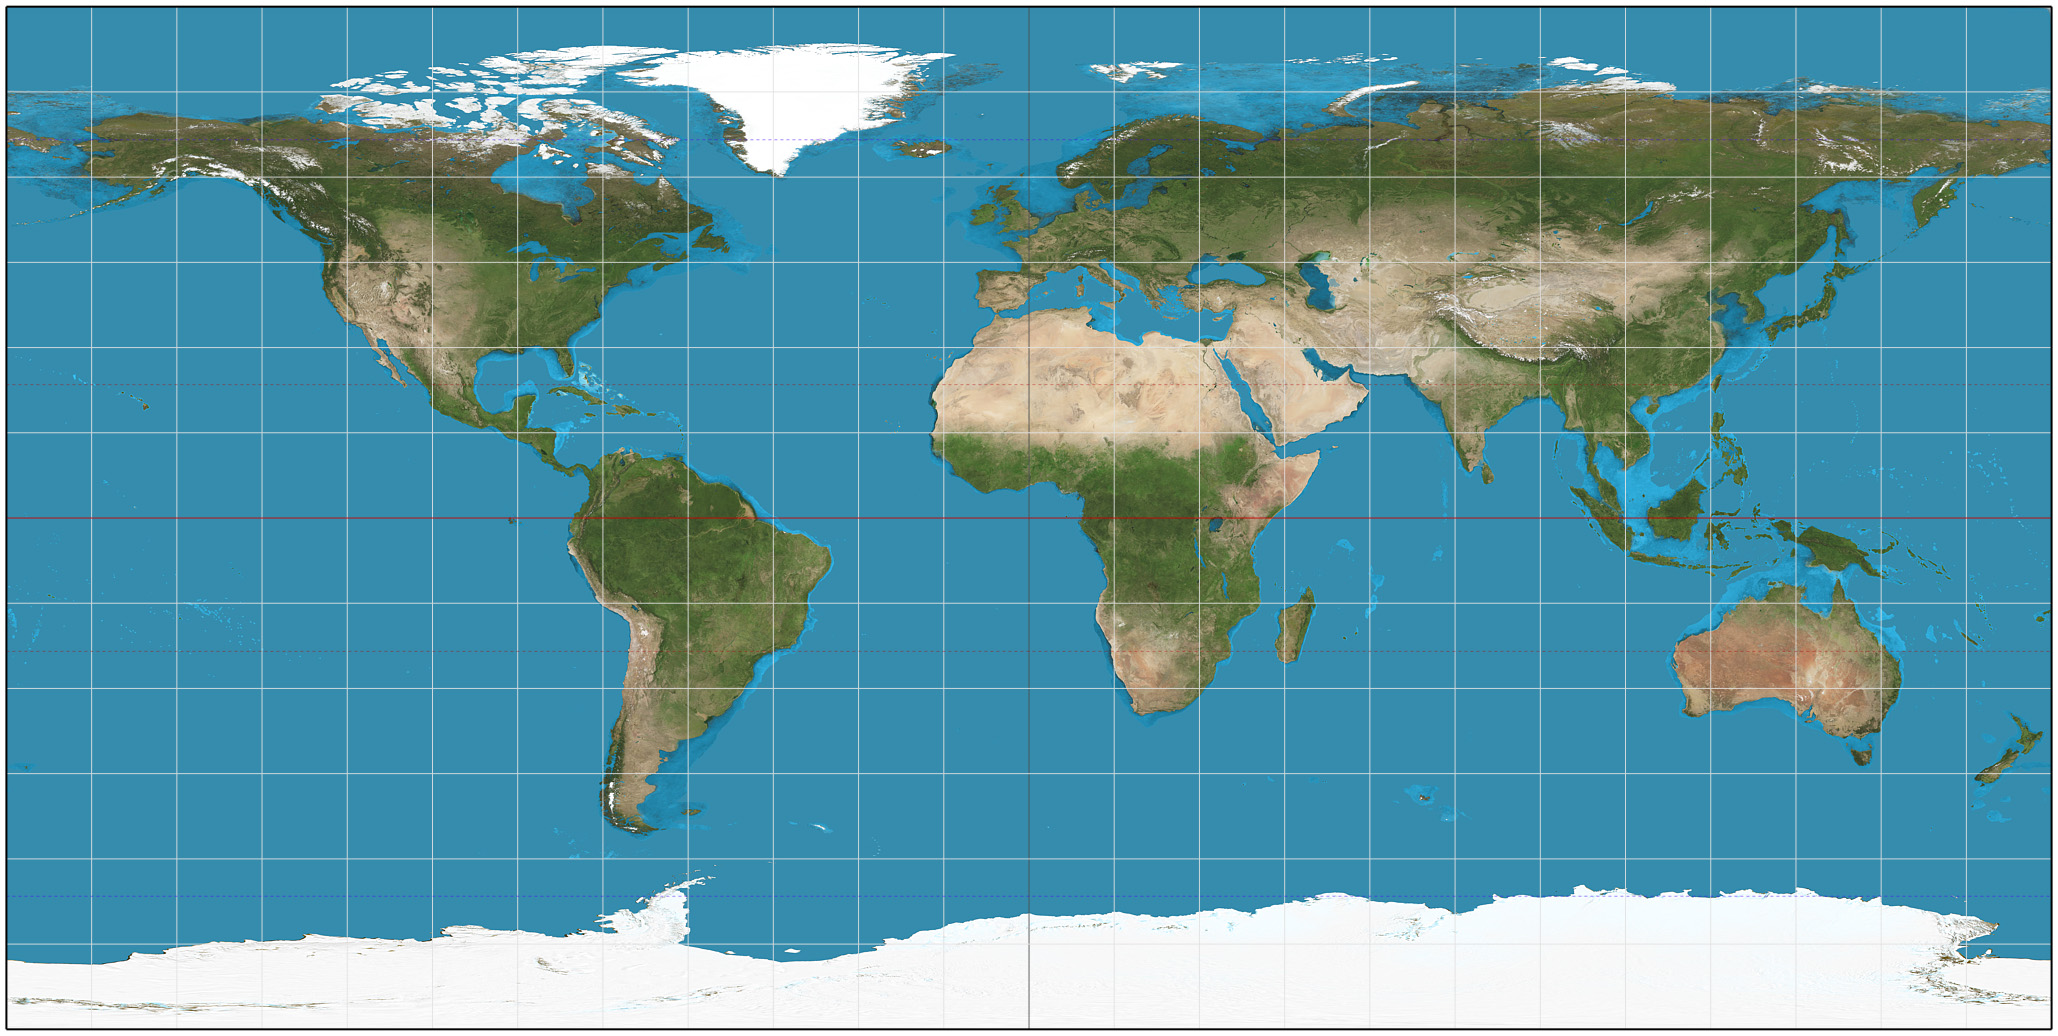
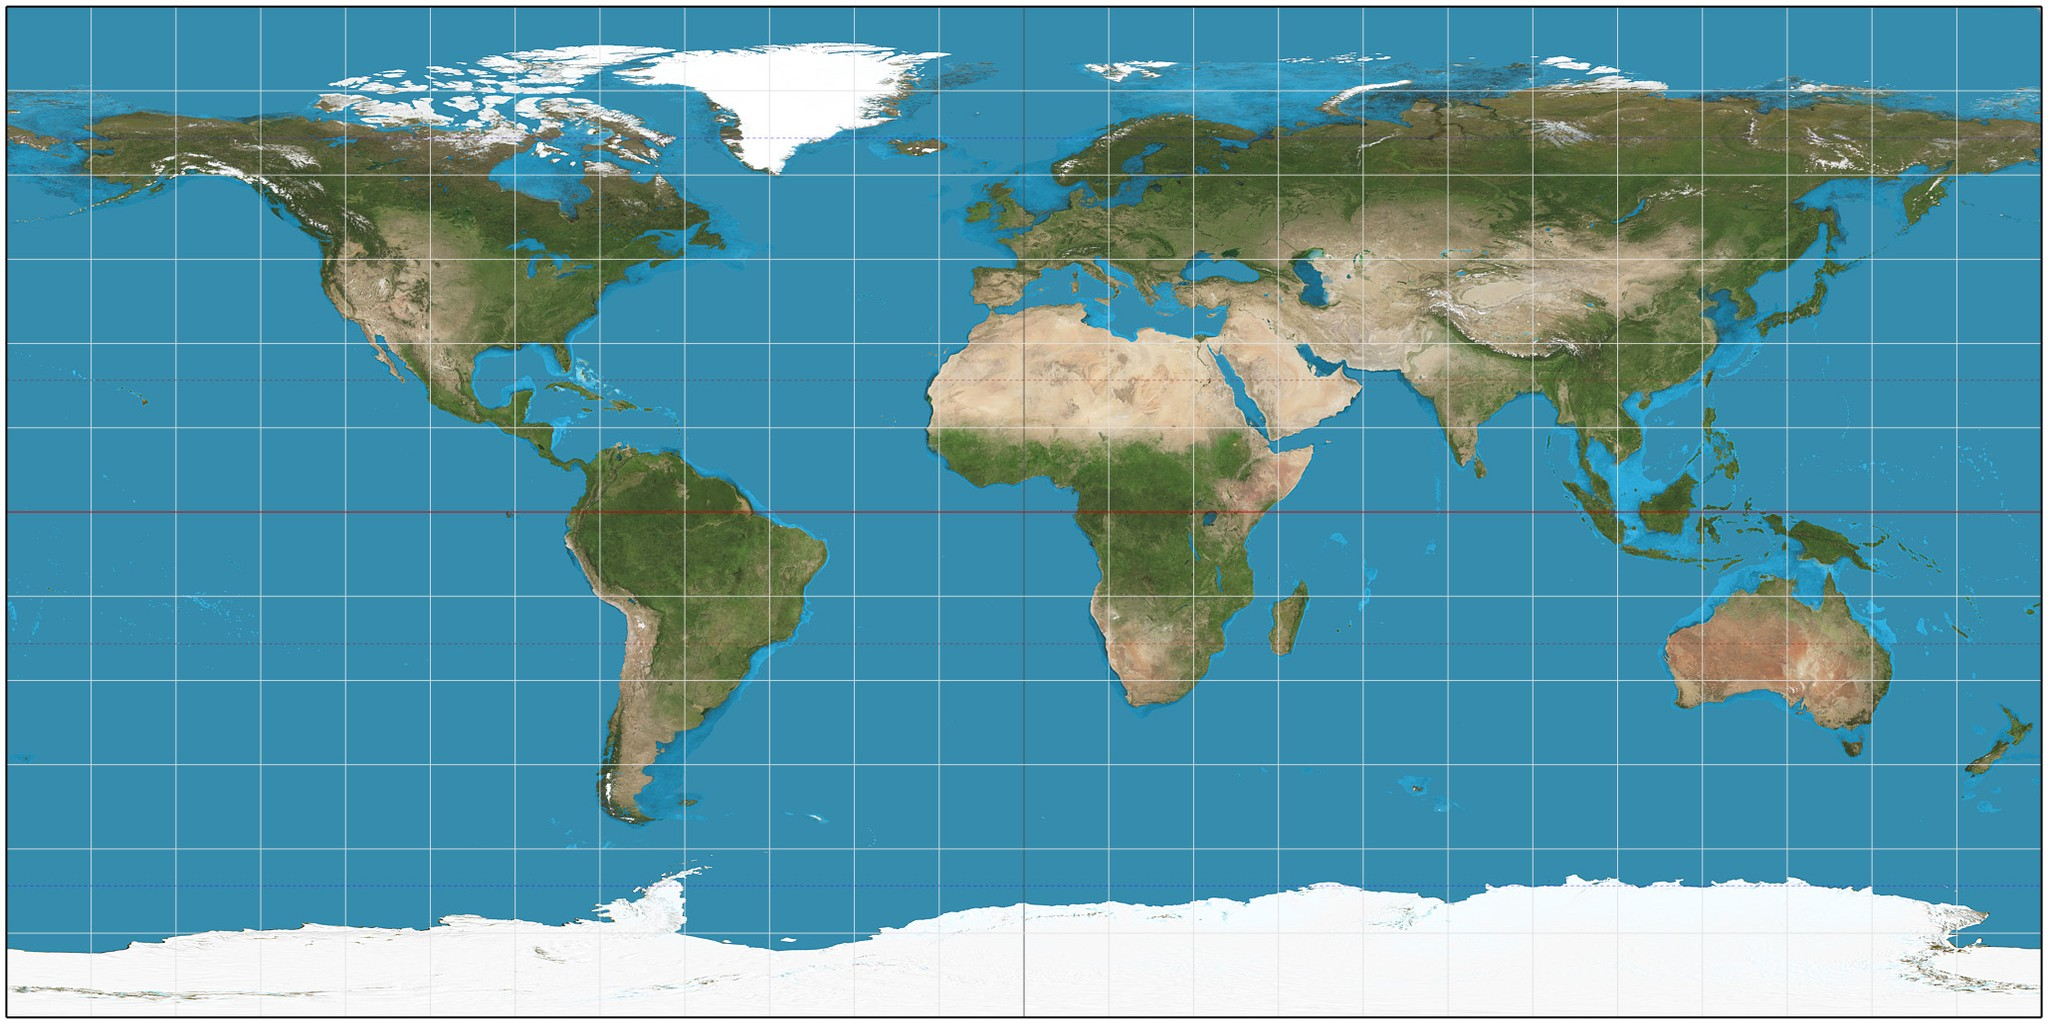
Concept B fixes: POT earth texture (fixes black globe), remove thick atmosphere border, larger canvas + pulled-back camera so arcs fit

Changed region(s): [[0.7812, 0.4688, 0.9062, 0.5312], [0.25, 0.125, 0.2812, 0.1562]]

diff --git a/hero2.html b/hero2.html
@@ -64,10 +64,10 @@ h1{font-family:"Space Grotesk",sans-serif;margin:0;font-weight:700}
 .trust svg{stroke:var(--lime)}
 
 /* 3D globe mount */
-.visual{position:relative;display:grid;place-items:center;min-height:540px}
-.vglow{position:absolute;width:560px;height:560px;border-radius:50%;background:radial-gradient(circle, rgba(91,157,255,.28), rgba(139,92,255,.14) 42%, transparent 70%);filter:blur(8px);pointer-events:none;animation:breathe 7s ease-in-out infinite}
+.visual{position:relative;display:grid;place-items:center;min-height:680px}
+.vglow{position:absolute;width:560px;height:560px;border-radius:50%;background:radial-gradient(circle, rgba(91,157,255,.22), rgba(139,92,255,.12) 42%, transparent 70%);filter:blur(10px);pointer-events:none;animation:breathe 7s ease-in-out infinite}
 @keyframes breathe{50%{transform:scale(1.05);opacity:.85}}
-#globe{position:relative;z-index:2;width:100%;height:540px;cursor:grab}
+#globe{position:relative;z-index:2;width:100%;height:680px;cursor:grab}
 #globe:active{cursor:grabbing}
 .hint{position:absolute;bottom:6px;left:50%;transform:translateX(-50%);z-index:3;font-size:.74rem;color:var(--muted2);letter-spacing:.04em;display:inline-flex;align-items:center;gap:.4rem;pointer-events:none;opacity:.8}
 
@@ -135,38 +135,30 @@ const R = 1.55;
 
 const scene = new THREE.Scene();
 const camera = new THREE.PerspectiveCamera(42, W/H, 0.1, 100);
-camera.position.set(0, 0.35, 5.2);
+camera.position.set(0, 0.35, 6.8);
 
 const renderer = new THREE.WebGLRenderer({ antialias:true, alpha:true });
 renderer.setPixelRatio(Math.min(devicePixelRatio, 2));
 renderer.setSize(W, H);
 mount.appendChild(renderer.domElement);
 
-// lights
-scene.add(new THREE.AmbientLight(0x6f86b0, 1.05));
-const sun = new THREE.DirectionalLight(0xfff4e0, 1.5);
+// lights — bright enough that the whole globe is clearly visible
+scene.add(new THREE.AmbientLight(0xb4c2da, 1.25));
+const sun = new THREE.DirectionalLight(0xfff4e0, 1.05);
 sun.position.set(-2.4, 1.4, 3); scene.add(sun);
 
-// Earth — map for lit side + emissiveMap so it stays visible & textured everywhere
-const tex = new THREE.TextureLoader().load('assets/earth.jpg');
+// Earth — power-of-two texture, defensive flags so it always renders (no black)
+const tex = new THREE.TextureLoader().load('assets/earth.jpg', ()=>{ renderer.render(scene,camera); });
 tex.colorSpace = THREE.SRGBColorSpace;
+tex.minFilter = THREE.LinearFilter;
+tex.generateMipmaps = false;
+tex.anisotropy = renderer.capabilities.getMaxAnisotropy();
 const earth = new THREE.Mesh(
   new THREE.SphereGeometry(R, 96, 96),
-  new THREE.MeshPhongMaterial({ map: tex, emissive: 0xffffff, emissiveMap: tex, emissiveIntensity: 0.32, shininess: 8, specular: new THREE.Color(0x2a3a4a) })
+  new THREE.MeshPhongMaterial({ map: tex, emissive: 0xffffff, emissiveMap: tex, emissiveIntensity: 0.28, shininess: 12, specular: new THREE.Color(0x223344) })
 );
 earth.rotation.z = 0.41;
 scene.add(earth);
-
-// subtle atmosphere rim
-const atm = new THREE.Mesh(
-  new THREE.SphereGeometry(R, 64, 64),
-  new THREE.ShaderMaterial({
-    transparent:true, blending:THREE.AdditiveBlending, side:THREE.BackSide, depthWrite:false,
-    vertexShader:`varying float i;void main(){vec3 n=normalize(normalMatrix*normal);vec3 v=normalize((modelViewMatrix*vec4(position,1.0)).xyz);i=pow(0.95+dot(n,v),3.0);gl_Position=projectionMatrix*modelViewMatrix*vec4(position,1.0);}`,
-    fragmentShader:`varying float i;void main(){gl_FragColor=vec4(0.30,0.50,1.0,1.0)*min(i,1.2)*0.75;}`
-  })
-);
-atm.scale.setScalar(1.14); scene.add(atm);
 
 // lat/lon -> point on globe (matches standard equirectangular earth.jpg)
 function ll(lat, lon, r=R){
@@ -205,7 +197,7 @@ hub.position.copy(ll(INDIA.lat,INDIA.lon,R*1.01)); hub.scale.setScalar(0.34); gl
 const arcs = DESTS.map((d,i)=>{
   const a=ll(INDIA.lat,INDIA.lon,R*1.012), b=ll(d.lat,d.lon,R*1.012);
   const mid=a.clone().add(b).multiplyScalar(0.5);
-  mid.normalize().multiplyScalar(R + a.distanceTo(b)*0.55 + 0.15);
+  mid.normalize().multiplyScalar(R + a.distanceTo(b)*0.26 + 0.08);
   const curve=new THREE.QuadraticBezierCurve3(a,mid,b);
   const line=new THREE.Line(
     new THREE.BufferGeometry().setFromPoints(curve.getPoints(64)),